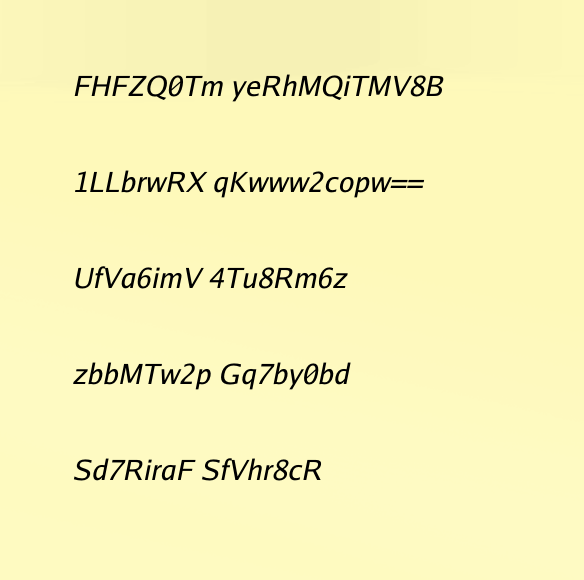
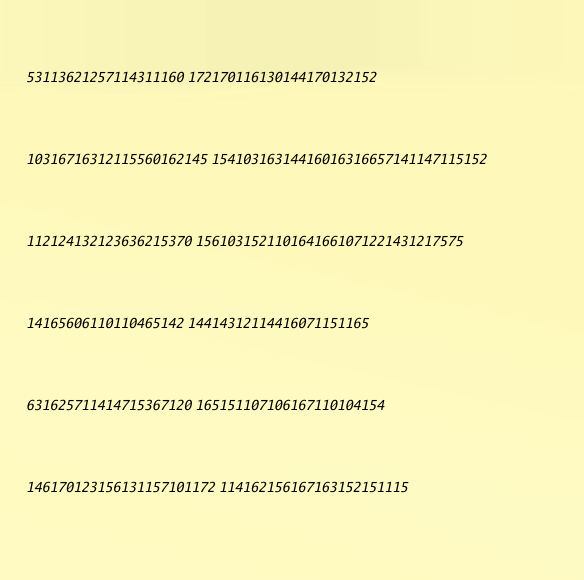
feat: 8bit encoding

diff --git a/main.go b/main.go
@@ -1,12 +1,10 @@
 package main
 
 import (
-	"encoding/base64"
-	"encoding/hex"
+	"context"
 	"fmt"
 	"log"
 	"os"
-	"strconv"
 	"strings"
 
 	"github.com/urfave/cli/v2"
@@ -42,37 +40,41 @@ func main() {
 				if err != nil {
 					log.Fatal(err)
 				}
-				key, err := hex.DecodeString(cfg.SecretKey)
+				vivantQR := &VivantQR{cfg: cfg}
+				ocrClient := NewOCRClient()
+				defer ocrClient.c.Close()
+				content, err := ocrClient.Do(context.TODO(), "./save.png")
 				if err != nil {
 					log.Fatal(err)
 				}
-				path := cCtx.Args().Get(2)
-				if path == "" {
-					log.Fatal("file not set. --file {file path}")
+				splitedCnt := strings.Split(string(content), " ")
+				var decoded []string
+				for _, v := range splitedCnt {
+					v = strings.ReplaceAll(v, "\n", " ")
+					spliteV := strings.Split(v, " ")
+					if len(spliteV) == 2 {
+						for i := 0; i < len(spliteV); i++ {
+							s, err := octalStringToBytes(spliteV[i])
+							if err != nil {
+								log.Fatal(err)
+							}
+							fmt.Println("splite", spliteV[i])
+							fmt.Println("splite", string(s))
+							decoded = append(decoded, string(s))
+						}
+						continue
+					}
+					s, err := octalStringToBytes(v)
+					if err != nil {
+						log.Fatal(s, err)
+					}
+					decoded = append(decoded, string(s))
 				}
-				f, err := os.ReadFile(path)
+				r, err := vivantQR.Decrypt(decoded)
 				if err != nil {
 					log.Fatal(err)
 				}
-				content := string(f)
-				splittedCttSlice := strings.Split(content, " ")
-				var correctNums = make([]string, 0, 11)
-				for _, o := range strconv.Itoa(cfg.Order) {
-					idx, _ := strconv.Atoi(string(o))
-					correctNums = append(correctNums, splittedCttSlice[idx])
-				}
-				iv := correctNums[len(correctNums)-1] + correctNums[len(correctNums)-2]
-				ivByte, err := base64.StdEncoding.DecodeString(iv)
-				if err != nil {
-					log.Fatal(err)
-				}
-				notDummyEncrypted := strings.Join(correctNums[:8], "")
-				nde, err := base64.StdEncoding.DecodeString(notDummyEncrypted)
-				if err != nil {
-					log.Fatal(err)
-				}
-				decrypted, _ := decrypt(nde, key, ivByte)
-				fmt.Printf("Decrypted: %s\n", decrypted)
+				fmt.Printf(string(r))
 			}
 			if cCtx.Bool("write") {
 				cfg, err := NewCfg()
@@ -84,9 +86,23 @@ func main() {
 				if err != nil {
 					log.Fatal(err)
 				}
+
+				var slic []string
+				for _, v := range result {
+					octal := bytesToOctalString([]byte(v))
+					a, err := octalStringToBytes(octal)
+					if err != nil {
+						log.Fatal(err)
+					}
+					fmt.Println("octal", octal)
+					fmt.Println(string(a))
+					fmt.Println(v)
+					slic = append(slic, octal)
+				}
+
 				var res []string
 				for i := 2; i <= 12; i += 2 {
-					a := strings.Join(result[i-2:i], " ")
+					a := strings.Join(slic[i-2:i], " ")
 					res = append(res, a)
 				}
 				if err := vivantQR.Output("./images/background.png", "./save.png", res); err != nil {
@@ -109,4 +125,36 @@ func main() {
 	if err := app.Run(os.Args); err != nil {
 		log.Fatal(err)
 	}
+}
+
+func bytesToOctalString(bytes []byte) string {
+	var octalString string
+
+	for _, b := range bytes {
+		octalString += fmt.Sprintf("%o", b)
+	}
+
+	return octalString
+}
+
+func octalStringToBytes(octalString string) ([]byte, error) {
+	var bytes []byte
+
+	for i := 0; i < len(octalString); i += 3 {
+		// 残りの文字が3文字未満の場合の対処
+		endIndex := i + 3
+		if endIndex > len(octalString) {
+			endIndex = len(octalString)
+		}
+
+		octalByte := octalString[i:endIndex]
+		var b int
+		_, err := fmt.Sscanf(octalByte, "%o", &b)
+		if err != nil {
+			return nil, err
+		}
+		bytes = append(bytes, byte(b))
+	}
+
+	return bytes, nil
 }

diff --git a/vivant.go b/vivant.go
@@ -6,6 +6,7 @@ import (
 	"image"
 	"image/color"
 	"image/draw"
+	"strings"
 
 	"image/png"
 	"os"
@@ -37,6 +38,32 @@ func (v *VivantQR) Encrpto() ([]string, error) {
 	return separate(encodedIV, encodedEncrypted, dummy, v.cfg.Order), nil
 }
 
+func (v *VivantQR) Decrypt(content []string) ([]byte, error) {
+	key, err := hex.DecodeString(v.cfg.SecretKey)
+	if err != nil {
+		return nil, err
+	}
+	var correctNums = make([]string, 0, 11)
+	for _, o := range strconv.Itoa(v.cfg.Order) {
+		idx, _ := strconv.Atoi(string(o))
+		correctNums = append(correctNums, content[idx])
+	}
+	iv := correctNums[len(correctNums)-1] + correctNums[len(correctNums)-2]
+	ivByte, err := base64.StdEncoding.DecodeString(iv)
+	if err != nil {
+		return nil, err
+	}
+	notDummyEncrypted := strings.Join(correctNums[:8], "")
+	nde, err := base64.StdEncoding.DecodeString(notDummyEncrypted)
+	if err != nil {
+		return nil, err
+	}
+	decrypted, err := decrypt(nde, key, ivByte)
+	if err != nil {
+		return nil, err
+	}
+	return decrypted, nil
+}
 func (v *VivantQR) Output(backGroundPath, savePath string, texts []string) error {
 	file, err := os.Open(backGroundPath)
 	if err != nil {
@@ -54,12 +81,12 @@ func (v *VivantQR) Output(backGroundPath, savePath string, texts []string) error
 	draw.Draw(m, m.Bounds(), img, bounds.Min, draw.Src)
 
 	textWidth := basicfont.Face7x13.Width
-	lines := 5
+	lines := 6
 	verticalSpacing := bounds.Dy() / (lines + 1)
 
-	for i := 1; i <= 5; i += 1 {
-		x := (bounds.Dx() - textWidth) / 8
-		y := i * verticalSpacing
+	for i := 0; i <= lines-1; i += 1 {
+		x := (bounds.Dx() - textWidth) / 22
+		y := (i + 1) * verticalSpacing
 		t := texts[i]
 		if err := drawTxt(m, x, y, t); err != nil {
 			return err
@@ -81,9 +108,9 @@ func drawTxt(img *image.RGBA, x, y int, text string) error {
 		return err
 	}
 	face, err := opentype.NewFace(f, &opentype.FaceOptions{
-		Size:    20,
+		Size:    10,
 		DPI:     100,
-		Hinting: font.HintingNone,
+		Hinting: font.Hinting(font.WeightThin),
 	})
 	if err != nil {
 		return err
@@ -116,6 +143,5 @@ func separate(iv string, encryptedTxt string, dummy string, order int) []string 
 	}
 	s[10] = dummy[len(dummy)/2:]
 	s[11] = dummy[:len(dummy)/2]
-
 	return s
 }

diff --git a/main_test.go b/main_test.go
@@ -2,16 +2,19 @@ package main
 
 import (
 	"fmt"
-	"strings"
 	"testing"
 )
 
-func Test(t *testing.T) {
-	b := []string{}
-	s := []string{"1", "2", "3", "4", "5", "6", "7", "8", "9", "10", "11", "12"}
-	for i := 2; i <= 12; i += 2 {
-		a := strings.Join(s[i-2:i], " ")
-		b = append(b, a)
+func Test_Decode(t *testing.T) {
+	// encodedIV := base64.StdEncoding.EncodeToString([]byte("tests"))
+	// fmt.Println(encodedIV)
+	encodedString := bytesToOctalString([]byte("encodedIV"))
+	fmt.Println("エンコードされた文字列:", encodedString)
+
+	decodedBytes, err := octalStringToBytes(encodedString)
+	if err != nil {
+		fmt.Println("デコードエラー:", err)
+		return
 	}
-	fmt.Println(len(b))
+	t.Log(decodedBytes)
 }

diff --git a/ocr.go b/ocr.go
@@ -27,6 +27,9 @@ func (ocrC *OCRClient) Do(ctx context.Context, imgPath string) (OCRTxt, error) {
 	if err := ocrC.c.SetImage(imgPath); err != nil {
 		return "", err
 	}
+	if err := ocrC.c.SetVariable(gosseract.TESSEDIT_CHAR_BLACKLIST, "Â¢â€'abcdefghijklmnopqrstuvwxyzABCDEFGHIJKLMNOPQRSTUVWXYZ"); err != nil {
+		return "", err
+	}
 	txt, err := ocrC.c.Text()
 	if err != nil {
 		return "", err
